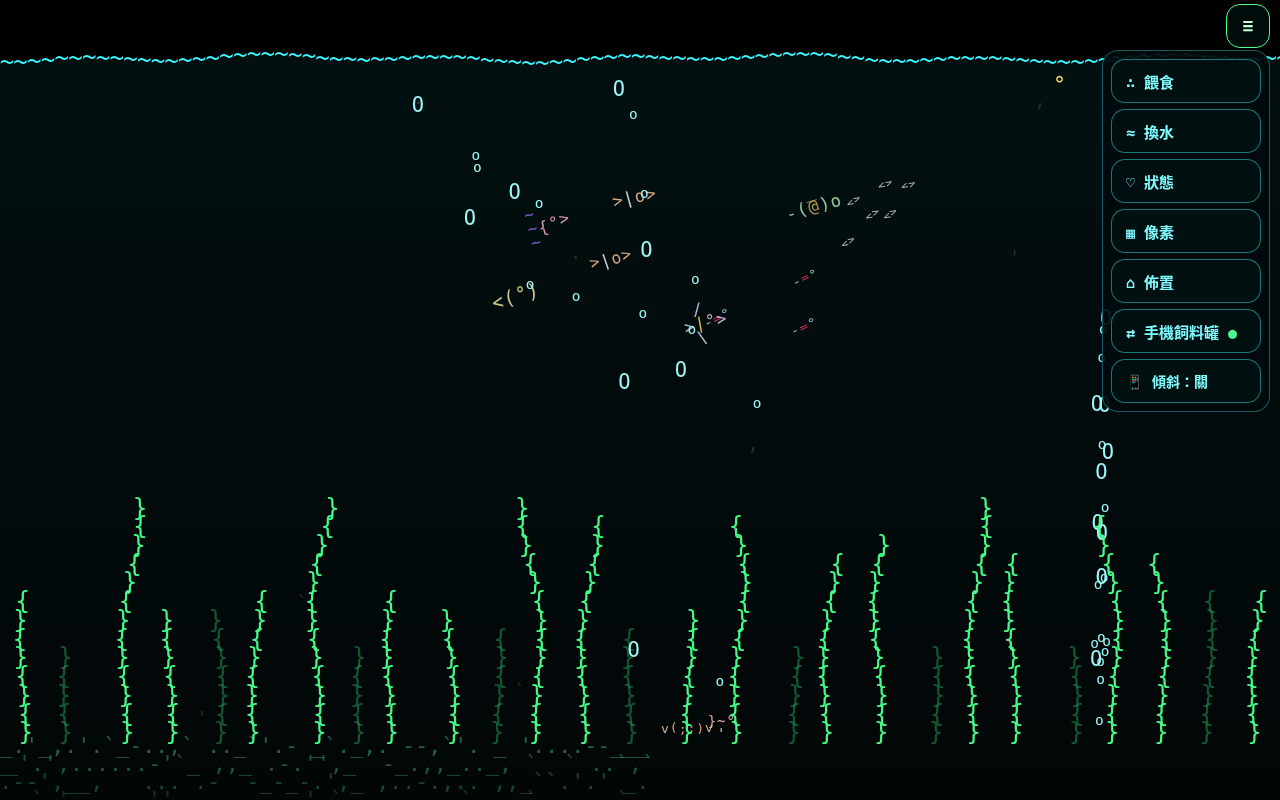
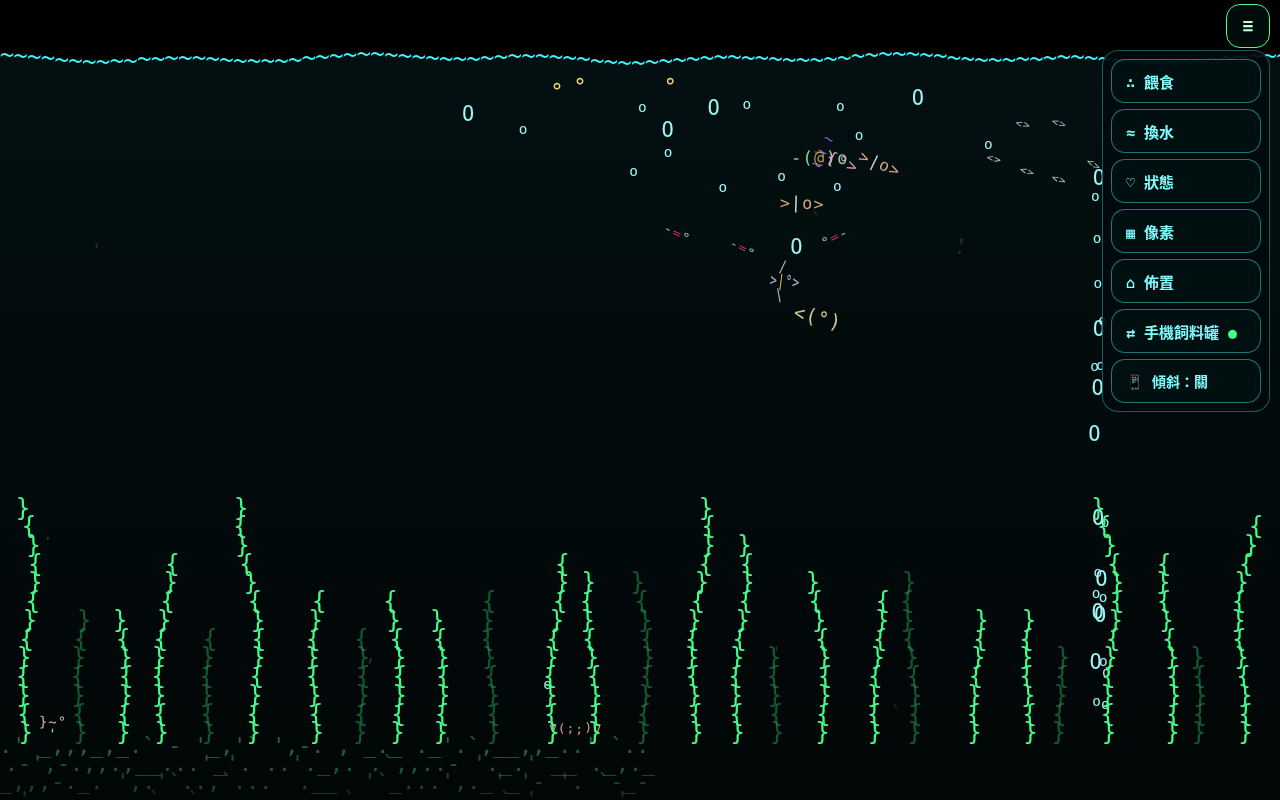
v10 tests (bridge for sandboxed WebRTC), phone-size QR shot

diff --git a/test_v10.py b/test_v10.py
@@ -87,11 +87,11 @@ with sync_playwright() as p:
     R["tilt_pellet_x_mean_frac"] = tank.evaluate("()=>+(__tank.food.reduce((a,f)=>a+f.x,0)/__tank.food.length/innerWidth).toFixed(2)")
     can.evaluate("()=>window.dispatchEvent(new DeviceOrientationEvent('deviceorientation',{alpha:0,beta:45,gamma:0}))"); tank.wait_for_timeout(700)
     # 撒飼料 button
-    tank.evaluate("()=>__tank.food.length=0"); can.wait_for_timeout(500); can.tap("#bFeed")
+    wait(tank, "()=>false", 0.8); tank.evaluate("()=>{__tank.food.length=0;__tank.fish.forEach(f=>f.hunger=100)}"); can.wait_for_timeout(500); can.tap("#bFeed")
     R["button_food_s"] = wait(tank, "()=>__tank.food.length>0", 5); wait(tank, "()=>false", 0.4); R["button_pellets"] = tank.evaluate("()=>__tank.food.length")
     tank.wait_for_timeout(700); tank.screenshot(path="/workspace/fishtank/shots/v10-fed.png")
     # rate limit: 10 rapid taps -> limited
-    tank.evaluate("()=>__tank.food.length=0")
+    wait(tank, "()=>false", 0.6); tank.evaluate("()=>{__tank.food.length=0;__tank.fish.forEach(f=>f.hunger=100)}")
     t0 = time.time()
     for _ in range(10): can.tap("#bFeed"); pump(tank, can)
     R["rapid_10_taps_secs"] = round(time.time() - t0, 2)
